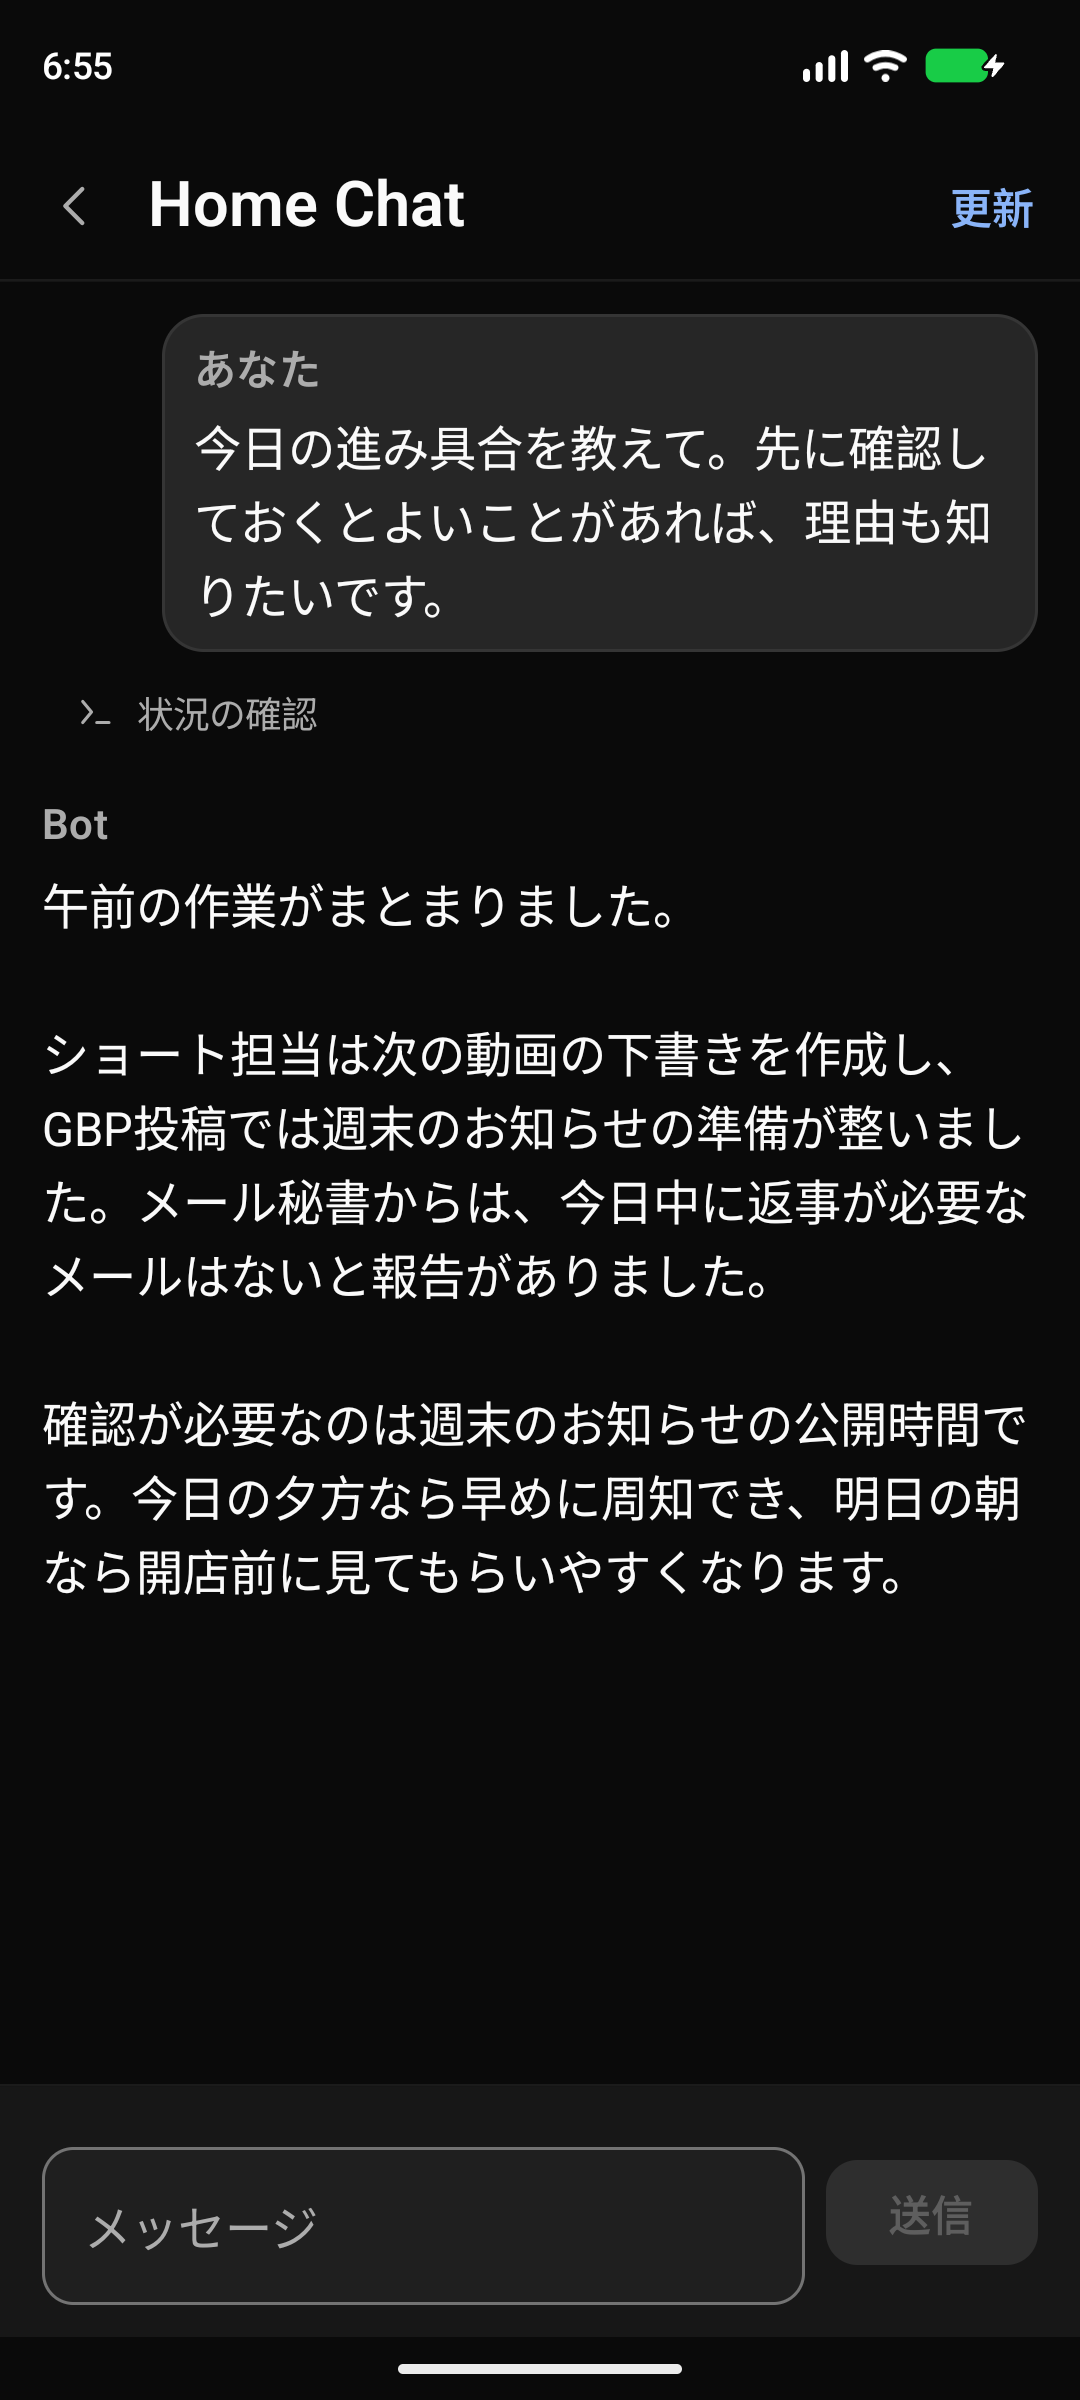
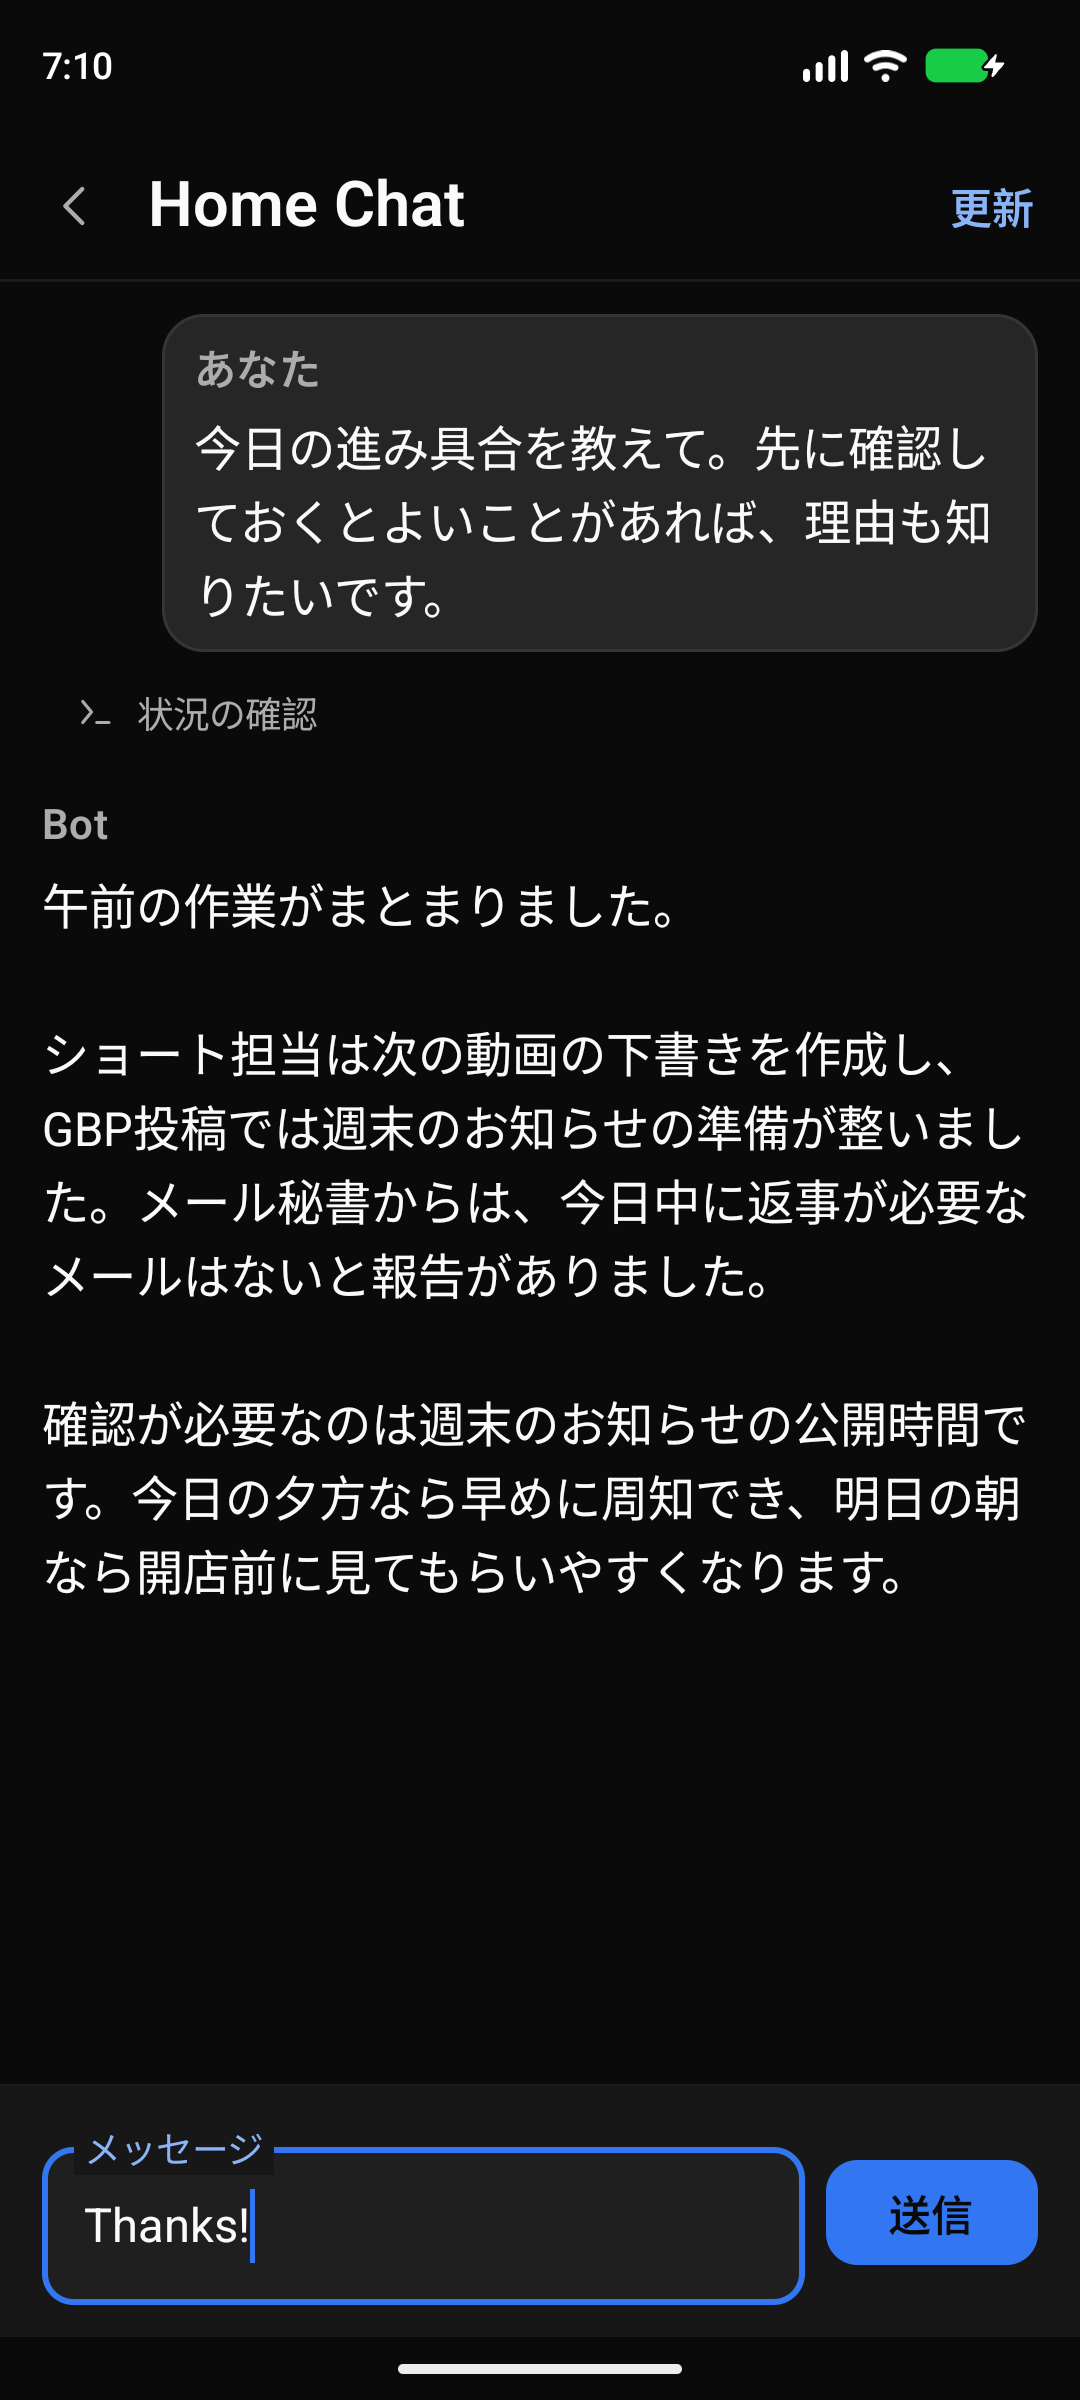
fix(android): Bot の停止表示と一覧の折り返し、Orca の強調色を修正

diff --git a/android/app/src/main/java/dev/okumura/orcaremote/Screens.kt b/android/app/src/main/java/dev/okumura/orcaremote/Screens.kt
@@ -38,7 +38,6 @@ import androidx.compose.material3.SnackbarHost
 import androidx.compose.material3.SnackbarHostState
 import androidx.compose.material3.Surface
 import androidx.compose.material3.Text
-import androidx.compose.material3.TextButton
 import androidx.compose.material3.TopAppBar
 import androidx.compose.material3.TopAppBarDefaults
 import androidx.compose.material3.pulltorefresh.PullToRefreshBox
@@ -148,7 +147,7 @@ private fun <T> DataContent(
                         color = MaterialTheme.colorScheme.error,
                     )
                     if (error == ApiError.UNAUTHORIZED) {
-                        TextButton(onClick = settings) { Text("設定を開く") }
+                        OrcaTextButton(onClick = settings) { Text("設定を開く") }
                     }
                 }
                 Box(Modifier.weight(1f)) { content(data) }
@@ -271,11 +270,11 @@ internal fun HomeScreen(
                             )
                             if (expanded && inlineChats != null) {
                                 when {
-                                    inlineChats.error == ApiError.UNAUTHORIZED -> TextButton(
+                                    inlineChats.error == ApiError.UNAUTHORIZED -> OrcaTextButton(
                                         onClick = settings,
                                         modifier = Modifier.padding(start = 48.dp),
                                     ) { Text("設定を開く") }
-                                    inlineChats.error != null -> TextButton(
+                                    inlineChats.error != null -> OrcaTextButton(
                                         onClick = { openBot(bot.name) },
                                         modifier = Modifier.padding(start = 48.dp),
                                     ) { Text("チャット一覧を開く") }
@@ -576,13 +575,14 @@ internal fun ItemsScreen(
                     Column {
                         ListRow(
                             title = item.title,
+                            titleMaxLines = 2,
                             subtitle = item.bot,
                             caption = relativeTime(item.lastActivityAt),
                             leading = { OrcaIcon(R.drawable.ic_pending, tint = MaterialTheme.colorScheme.tertiary) },
                             onClick = { openItem(item) },
                         )
                         item.chatId?.let { chatId ->
-                            TextButton(onClick = { openChat(item.bot, chatId, item.title) }) {
+                            OrcaTextButton(onClick = { openChat(item.bot, chatId, item.title) }) {
                                 Text("このチャットを開く")
                             }
                         }
@@ -636,12 +636,12 @@ internal fun ItemScreen(
                 textContentColor = MaterialTheme.colorScheme.onSurface,
                 text = { Text("『${label}』と答えますか？", style = MaterialTheme.typography.bodyLarge) },
                 confirmButton = {
-                    TextButton(onClick = {
+                    OrcaTextButton(onClick = {
                         choice = null
                         sender.submit(label)
                     }) { Text("はい") }
                 },
-                dismissButton = { TextButton(onClick = { choice = null }) { Text("キャンセル") } },
+                dismissButton = { OrcaTextButton(onClick = { choice = null }) { Text("キャンセル") } },
             )
         }
     }
@@ -696,7 +696,7 @@ internal fun ItemScreen(
             )
             if (item != null) {
                 item.chatId?.let { chatId ->
-                    TextButton(
+                    OrcaTextButton(
                         onClick = { openChat(item.bot, chatId, item.title) },
                         enabled = !sender.sending,
                     ) { Text("このチャットを開く") }
@@ -721,7 +721,7 @@ internal fun SummaryScreen(
                 if (summary == null) {
                     Text("まだありません")
                 } else {
-                    Text(summary.bot, color = MaterialTheme.colorScheme.primary, style = MaterialTheme.typography.labelLarge)
+                    Text(summary.bot, color = orcaAccentText, style = MaterialTheme.typography.labelLarge)
                     SelectionContainer { Text(summary.content) }
                     summary.chatId?.let { chatId ->
                         Button(onClick = { openChat(summary.bot, chatId, summary.bot) }, shape = MaterialTheme.shapes.medium) {
@@ -761,6 +761,7 @@ private fun DraftField(
         modifier = modifier,
         textStyle = MaterialTheme.typography.bodyLarge,
         colors = OutlinedTextFieldDefaults.colors(
+            focusedLabelColor = orcaAccentText,
             focusedContainerColor = MaterialTheme.colorScheme.surfaceContainerLow,
             unfocusedContainerColor = MaterialTheme.colorScheme.surfaceContainerLow,
         ),
@@ -803,8 +804,8 @@ private fun ResendDialog(cancel: () -> Unit, confirm: () -> Unit) {
         onDismissRequest = cancel,
         textContentColor = MaterialTheme.colorScheme.onSurface,
         text = { Text("前の送信が届いているかもしれません。もう一度送りますか？", style = MaterialTheme.typography.bodyLarge) },
-        confirmButton = { TextButton(onClick = confirm) { Text("もう一度送る") } },
-        dismissButton = { TextButton(onClick = cancel) { Text("やめる") } },
+        confirmButton = { OrcaTextButton(onClick = confirm) { Text("もう一度送る") } },
+        dismissButton = { OrcaTextButton(onClick = cancel) { Text("やめる") } },
     )
 }
 
@@ -827,7 +828,7 @@ private fun SendStatus(
             modifier = Modifier.semantics { liveRegion = LiveRegionMode.Polite },
             color = MaterialTheme.colorScheme.error,
         )
-        if (error == ApiError.UNAUTHORIZED) TextButton(onClick = settings) { Text("設定を開く") }
+        if (error == ApiError.UNAUTHORIZED) OrcaTextButton(onClick = settings) { Text("設定を開く") }
     }
     if (sender.deliveryUncertain) {
         Text(
@@ -835,7 +836,7 @@ private fun SendStatus(
             modifier = Modifier.semantics { liveRegion = LiveRegionMode.Polite },
             color = MaterialTheme.colorScheme.error,
         )
-        TextButton(onClick = sender::markAsSent, enabled = !sender.sending) {
+        OrcaTextButton(onClick = sender::markAsSent, enabled = !sender.sending) {
             Text("送信済みとして閉じる")
         }
     }
@@ -861,5 +862,5 @@ private fun EntryList(
 
 @Composable
 private fun RefreshAction(model: ScreenModel<*>) {
-    TextButton(onClick = { model.refresh() }, enabled = !model.loading) { Text("更新") }
+    OrcaTextButton(onClick = { model.refresh() }, enabled = !model.loading) { Text("更新") }
 }

diff --git a/android/app/src/main/java/dev/okumura/orcaremote/Theme.kt b/android/app/src/main/java/dev/okumura/orcaremote/Theme.kt
@@ -8,6 +8,7 @@ import androidx.compose.material3.ButtonDefaults
 import androidx.compose.material3.MaterialTheme
 import androidx.compose.material3.OutlinedButton
 import androidx.compose.material3.Shapes
+import androidx.compose.material3.TextButton
 import androidx.compose.material3.Typography
 import androidx.compose.material3.darkColorScheme
 import androidx.compose.material3.lightColorScheme
@@ -18,44 +19,51 @@ import androidx.compose.ui.text.font.FontWeight
 import androidx.compose.ui.unit.dp
 import androidx.compose.ui.unit.sp
 
-// Orca 1.4.266 mobile web assets/48f50a11…js defines the palette, spacing, and radii.
+// Orca 1.4.266, out/mobile-web/assets/48f50a112c3adef7131b9cb209e7d2ac6d44e71e16a16c832b65052a67ddfe0d.js
 private val DarkColors = darkColorScheme(
-    background = Color(0xFF0A0A0A),
-    surface = Color(0xFF171717),
-    surfaceContainerLow = Color(0xFF1F1F1F),
-    surfaceContainer = Color(0xFF262626),
-    surfaceContainerHigh = Color(0xFF262626),
-    secondaryContainer = Color(0xFF404040),
-    onSecondaryContainer = Color(0xFFFAFAFA),
-    onBackground = Color(0xFFFAFAFA),
-    onSurface = Color(0xFFFAFAFA),
-    onSurfaceVariant = Color(0xFFACACAC),
-    primary = Color(0xFF8AB4F8),
-    onPrimary = Color(0xFF0A0A0A),
-    tertiary = Color(0xFFF97316),
-    outline = Color(0xFF737373),
-    outlineVariant = Color(0x12FFFFFF),
-    error = Color(0xFFFF6568),
+    background = Color(0xFF0A0A0A), // bgBase
+    surface = Color(0xFF171717), // bgPanel
+    surfaceContainerLow = Color(0xFF1F1F1F), // composerSurface
+    surfaceContainer = Color(0xFF262626), // bgRaised for the sidebar-style lists
+    surfaceContainerHigh = Color(0xFF262626), // bgRaised
+    secondaryContainer = Color(0xFF404040), // Lighten bgRaised to distinguish expanded rows.
+    onSecondaryContainer = Color(0xFFFAFAFA), // textPrimary
+    onBackground = Color(0xFFFAFAFA), // textPrimary
+    onSurface = Color(0xFFFAFAFA), // textPrimary
+    onSurfaceVariant = Color(0xFFACACAC), // textSecondary
+    primary = Color(0xFF3276F2), // accentBlue
+    onPrimary = Color(0xFF0A0A0A), // bgBase gives 4.72:1 on accentBlue (onAccent gives 4.19:1).
+    tertiary = Color(0xFFF97316), // agentQuestion
+    outline = Color(0xFF737373), // inputBorder
+    outlineVariant = Color(0x12FFFFFF), // borderSubtle, 7% alpha rounded to a byte
+    error = Color(0xFFFF6568), // statusRed
 )
 
 private val LightColors = lightColorScheme(
-    background = Color(0xFFFFFFFF),
-    surface = Color(0xFFFAFAFA),
-    surfaceContainerLow = Color(0xFFFFFFFF),
-    surfaceContainer = Color(0xFFF5F5F5),
-    surfaceContainerHigh = Color(0xFFF5F5F5),
-    secondaryContainer = Color(0xFFE5E5E5),
-    onSecondaryContainer = Color(0xFF0A0A0A),
-    onBackground = Color(0xFF0A0A0A),
-    onSurface = Color(0xFF0A0A0A),
-    onSurfaceVariant = Color(0xFF696969),
-    primary = Color(0xFF1D4ED8),
-    onPrimary = Color(0xFFFFFFFF),
-    tertiary = Color(0xFFC2410C),
-    outline = Color(0xFF737373),
-    outlineVariant = Color(0xFFE5E5E5),
-    error = Color(0xFFE40014),
+    background = Color(0xFFFFFFFF), // bgBase
+    surface = Color(0xFFFAFAFA), // bgPanel
+    surfaceContainerLow = Color(0xFFFFFFFF), // composerSurface
+    surfaceContainer = Color(0xFFF5F5F5), // bgRaised for the sidebar-style lists
+    surfaceContainerHigh = Color(0xFFF5F5F5), // bgRaised
+    secondaryContainer = Color(0xFFE5E5E5), // borderSubtle as a fill to distinguish expanded rows
+    onSecondaryContainer = Color(0xFF0A0A0A), // textPrimary
+    onBackground = Color(0xFF0A0A0A), // textPrimary
+    onSurface = Color(0xFF0A0A0A), // textPrimary
+    onSurfaceVariant = Color(0xFF696969), // textSecondary
+    primary = Color(0xFF225BE3), // accentBlue
+    onPrimary = Color(0xFFFFFFFF), // onAccent
+    tertiary = Color(0xFFC2410C), // Darken agentQuestion (#EA580C) for readable text on light surfaces.
+    outline = Color(0xFF737373), // inputBorder
+    outlineVariant = Color(0xFFE5E5E5), // borderSubtle
+    error = Color(0xFFE40014), // statusRed
 )
+
+internal val orcaAccentText: Color
+    @Composable get() = if (isSystemInDarkTheme()) {
+        Color(0xFF8AB4F8) // skillToken for text since accentBlue falls below 4.5:1 on bgPanel and bgRaised.
+    } else {
+        MaterialTheme.colorScheme.primary // accentBlue
+    }
 
 private val OrcaShapes = Shapes(
     extraSmall = RoundedCornerShape(12.dp),
@@ -105,6 +113,22 @@ internal fun OrcaOutlinedButton(
         shape = MaterialTheme.shapes.medium,
         colors = ButtonDefaults.outlinedButtonColors(contentColor = colors.onSurface),
         border = BorderStroke(1.dp, if (enabled) colors.outline else colors.outlineVariant),
+        content = content,
+    )
+}
+
+@Composable
+internal fun OrcaTextButton(
+    onClick: () -> Unit,
+    modifier: Modifier = Modifier,
+    enabled: Boolean = true,
+    content: @Composable RowScope.() -> Unit,
+) {
+    TextButton(
+        onClick = onClick,
+        modifier = modifier,
+        enabled = enabled,
+        colors = ButtonDefaults.textButtonColors(contentColor = orcaAccentText),
         content = content,
     )
 }

diff --git a/android/app/src/main/java/dev/okumura/orcaremote/ListRows.kt b/android/app/src/main/java/dev/okumura/orcaremote/ListRows.kt
@@ -53,6 +53,7 @@ internal fun BotRow(bot: Bot, expanded: Boolean, open: () -> Unit, toggle: () ->
             modifier = Modifier.weight(1f),
             leading = { Mascot(bot) },
             subtitle = when {
+                bot.needsYou > 0 && bot.paused -> "$preview · 停止中"
                 bot.needsYou > 0 -> preview
                 bot.paused -> "停止中"
                 else -> listPreview(bot.lastSaid) ?: bot.specialty
@@ -78,6 +79,7 @@ internal fun ChatRow(chat: Chat, modifier: Modifier = Modifier, showPreview: Boo
         onClick = open,
         modifier = modifier,
         leading = { OrcaIcon(if (chat.home) R.drawable.ic_home else R.drawable.ic_chat) },
+        titleMaxLines = if (showPreview) 2 else 1,
         subtitle = if (showPreview) listPreview(chat.lastSaid) ?: listPreview(chat.lastAsked) else null,
         caption = relativeTime(chat.lastActivityAt, compact = true),
         showChevron = showPreview,
@@ -98,6 +100,7 @@ internal fun ListRow(
     subtitleColor: Color = MaterialTheme.colorScheme.onSurfaceVariant,
     caption: String? = null,
     showChevron: Boolean = true,
+    titleMaxLines: Int = 1,
 ) {
     Row(
         modifier.fillMaxWidth().clip(MaterialTheme.shapes.small)
@@ -117,7 +120,7 @@ internal fun ListRow(
                     title,
                     Modifier.weight(1f),
                     style = MaterialTheme.typography.titleMedium,
-                    maxLines = 1,
+                    maxLines = titleMaxLines,
                     overflow = TextOverflow.Ellipsis,
                 )
                 caption?.let {

diff --git a/android/app/src/main/java/dev/okumura/orcaremote/SettingsScreen.kt b/android/app/src/main/java/dev/okumura/orcaremote/SettingsScreen.kt
@@ -24,6 +24,7 @@ import androidx.compose.material3.LinearProgressIndicator
 import androidx.compose.material3.MaterialTheme
 import androidx.compose.material3.OutlinedSecureTextField
 import androidx.compose.material3.OutlinedTextField
+import androidx.compose.material3.OutlinedTextFieldDefaults
 import androidx.compose.material3.Switch
 import androidx.compose.material3.Text
 import androidx.compose.runtime.Composable
@@ -100,6 +101,7 @@ internal fun SettingsScreen(
             Text("Tailscale をオンにして、Mac mini のアドレスとトークンを入力してください。")
             OutlinedTextField(
                 value = model.url,
+                colors = OutlinedTextFieldDefaults.colors(focusedLabelColor = orcaAccentText),
                 onValueChange = { model.url = it },
                 modifier = Modifier.fillMaxWidth(),
                 label = { Text("サーバー URL") },
